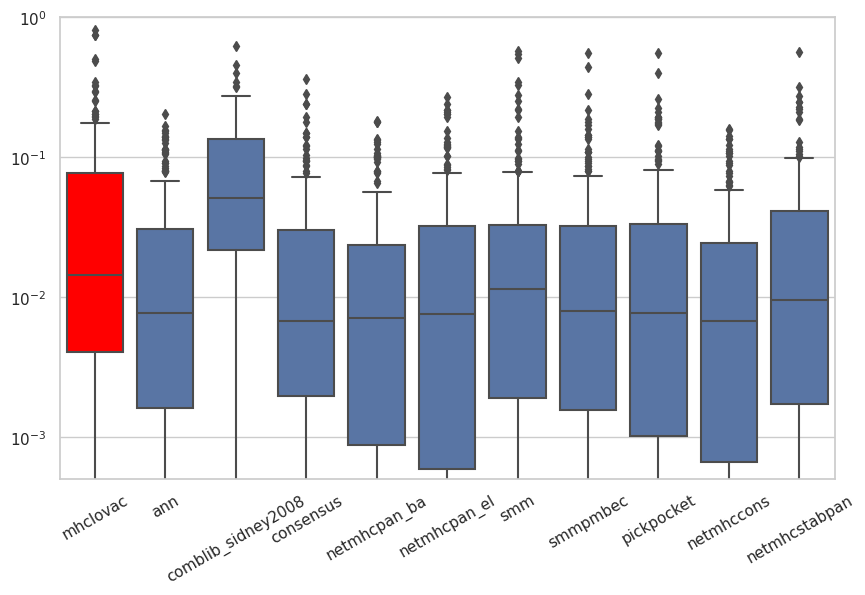
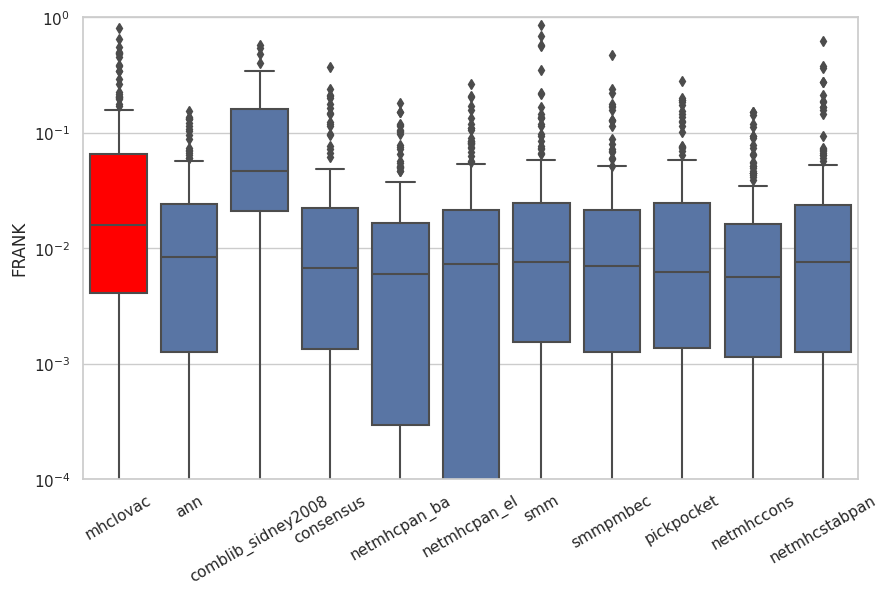
add research scripts

diff --git a/research/script_4.py b/research/script_4.py
@@ -5,8 +5,7 @@ import pandas as pd
 import mhcnames
 import os
 from io import StringIO
-import seaborn as sns
-import matplotlib.pyplot as plt
+import numpy as np
 
 
 N_SAMPLES = 200
@@ -56,9 +55,12 @@ def get_mhclovac_frank(sequence, mhc, epitope):
 frank_scores = {'mhclovac': []}
 frank_scores.update({k: [] for k in IEDB_METHODS})
 
+np.random.seed(0)
+random_selection = np.random.randint(0, 1659, N_SAMPLES)
+
 for i, (sequence_name, sequence) in enumerate(read_fasta(bench_fasta)):
-    if i > N_SAMPLES:
-        break
+    if i not in random_selection:
+        continue
 
     print(i, sequence_name)
     true_epitope = sequence_name.split()[0]
@@ -83,16 +85,4 @@ for i, (sequence_name, sequence) in enumerate(read_fasta(bench_fasta)):
 
 
 data = pd.DataFrame.from_dict(frank_scores)
-
-
-plt.figure(figsize=(10, 6), dpi=100)
-
-sns.set_theme(style="whitegrid")
-palette = {k: 'blue' for k in data.columns}
-palette['mhclovac'] = 'red'
-ax = sns.boxplot(data=data, color='#4c72b0')
-ax.artists[0].set_facecolor('red')
-ax.set_xticklabels([k for k in data.columns], rotation=30)
-ax.set_yscale('log')
-ax.set_ylim([0.0005, 1.0])
-plt.savefig('figures/mhclovac-frank-benchmark.png', bbox_inches='tight')
+data.to_csv('./results/benchmarking_results.csv', index=False)

diff --git a/research/figure_1.py b/research/figure_1.py
@@ -13,7 +13,7 @@ rcParams['font.size'] = 16
 props = dict(boxstyle='round', facecolor='wheat', alpha=0.6)
 
 
-hydrophobicity_index_data = load_index_data()['PRAM900101']['standardized_index_data']
+hydrophobicity_index_data = load_index_data()['HOPT810101']['standardized_index_data']
 
 
 def plot_distribution(sequence, index, label, legend=None, linewidth=3, ylabel=None, title=None):
@@ -76,7 +76,7 @@ plot_distribution(
     example_sequence_1,
     hydrophobicity_index_data,
     label='a)',
-    title='Modeled hydrophobicity profile'
+    title='Modeled hydrophilicity profile'
 )
 
 dist_1 = model_distribution(example_sequence_1, hydrophobicity_index_data)
@@ -89,7 +89,7 @@ plot_distribution(
     # legend=example_sequence_1,
     linewidth=2,
     title='8-mer profile',
-    ylabel='Normalized hydrophobicity index'
+    ylabel='Hydrophilicity index'
 )
 
 plt.subplot(3, 2, 5)

diff --git a/research/figure_2.py b/research/figure_2.py
@@ -1,0 +1,18 @@
+import pandas as pd
+import matplotlib.pyplot as plt
+import seaborn as sns
+
+data = pd.read_csv('results/benchmarking_results.csv')
+
+plt.figure(figsize=(10, 6), dpi=100)
+
+sns.set_theme(style="whitegrid")
+palette = {k: 'blue' for k in data.columns}
+palette['mhclovac'] = 'red'
+ax = sns.boxplot(data=data, color='#4c72b0')
+ax.artists[0].set_facecolor('red')
+ax.set_xticklabels([k for k in data.columns], rotation=30)
+ax.set_yscale('log')
+ax.set_ylim([10**-4, 1.0])
+ax.set_ylabel('FRANK')
+plt.savefig('figures/mhclovac-frank-benchmark.png', bbox_inches='tight')
